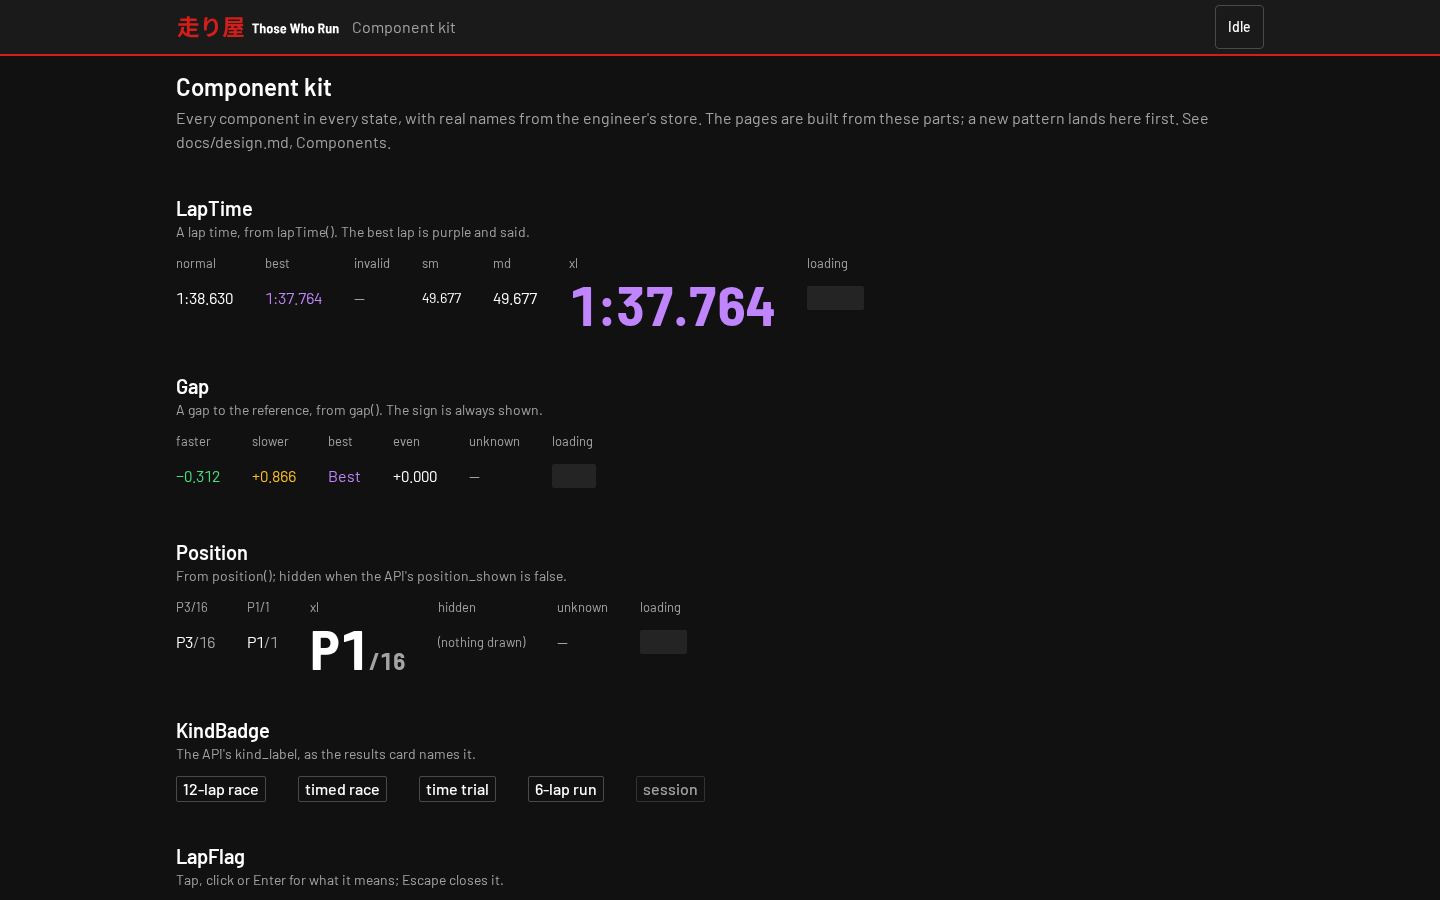
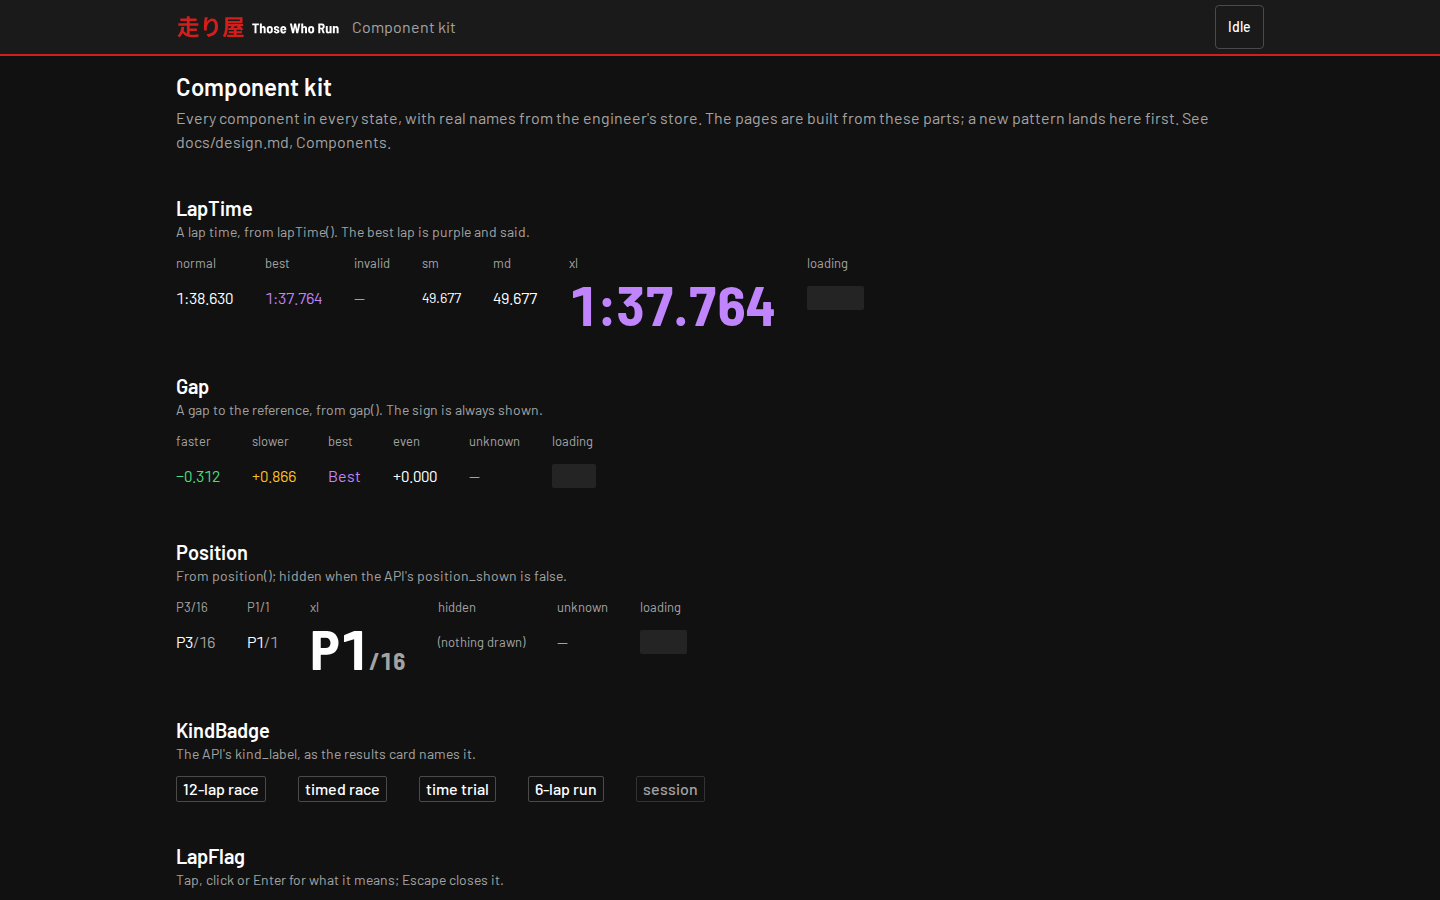
docs: the guide's screenshots, made against v2 by the docs-screenshots workflow
From the docs-screens artifact of this PR's run. The guide says how they are
made, in place of the line that they were v1's.

Closes those-who-run/paddock#135

diff --git a/docs/pitwall.md b/docs/pitwall.md
@@ -46,20 +46,18 @@ keep for v2). One column, so it works on a phone straight after a race:
 |---|---|---|
 | Sessions | ![The session list on a phone: today's sessions as cards, each with its track, kind, car, time, result and best lap](assets/screens/phone/sessions.png) | ![The session list on a desktop: filters for track, car, kind and date over today's four sessions](assets/screens/desktop/sessions.png) |
 | A session | ![A 12-lap race at Circuit Gilles Villeneuve on a phone: P15 of 20, retired on lap 3, and stat tiles for best lap, average, laps, fuel used, pit stops and driving time, then the laps](assets/screens/phone/session.png) | ![The same race on a desktop: the result, the stat tiles and the lap table, with lap 1 the best and lap 3 partial](assets/screens/desktop/session.png) |
-| Lap compare | ![Lap compare on a phone: lap 1 against lap 2 of the race, the cursor readout, and the speed and throttle charts](assets/screens/phone/compare.png) | ![Lap compare on a desktop: lap 1, the best, against lap 2, with speed and throttle charts of both laps](assets/screens/desktop/compare.png) |
+| Lap compare | ![Lap compare on a phone: lap 1 against lap 2 of the race, the cursor readout, the channel toggles and the track map coloured by the pedals](assets/screens/phone/compare.png) | ![Lap compare on a desktop: lap 1, the best, against lap 2, with speed and throttle charts of both laps beside the track map coloured by the pedals](assets/screens/desktop/compare.png) |
 | `/_kit` | ![The component kit on a phone: lap times, gaps and positions in each of their states](assets/screens/phone/kit.png) | ![The component kit on a desktop: lap times, gaps, positions and kind badges in each of their states, loading included](assets/screens/desktop/kit.png) |
 
 `/_kit` is the component kit's review page (v1's
 [ADR 0004](https://github.com/those-who-run/those-who-run/blob/v1.0.0/docs/adr/0004-design-language.md)),
 not a page a driver uses.
 
-The screenshots are still v1's pit wall: v1's docs config made them
-(`make docs-screenshots`, those-who-run/those-who-run#381) before the web app
-moved here. v2 has no such target yet: `web/playwright.docs.config.ts` and
-`web/e2e/docs.screens.ts` came over, but the e2e set-up has no switch to leave
-out its open session, and the docs spec's clock is still v1's, so the pictures
-have not been made against v2. The pages they show are the same pages, but the
-lap compare pictures predate the track map.
+The screenshots are made by `make docs-screenshots`
+(`web/playwright.docs.config.ts`) over the e2e suite's store, with the
+engineer idle and no session open. CI's Docs screenshots workflow runs it, by
+hand or on a PR that changes what makes them, and uploads them as the
+`docs-screens` artifact: unzip it over `docs/assets/screens/` and commit.
 
 A closed session's page has **Delete**, which asks first, naming the
 session's track, car and date. A deleted session is left out of the list and
